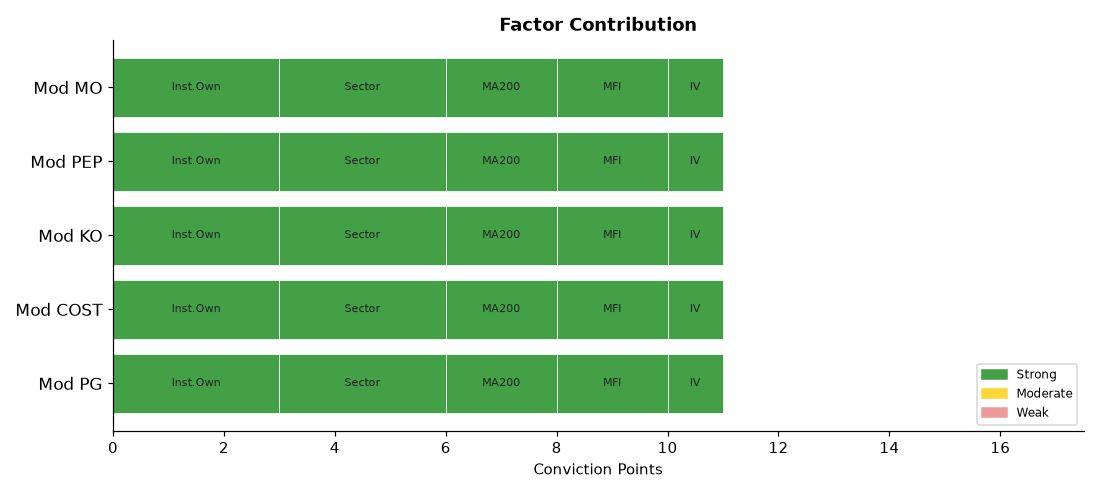
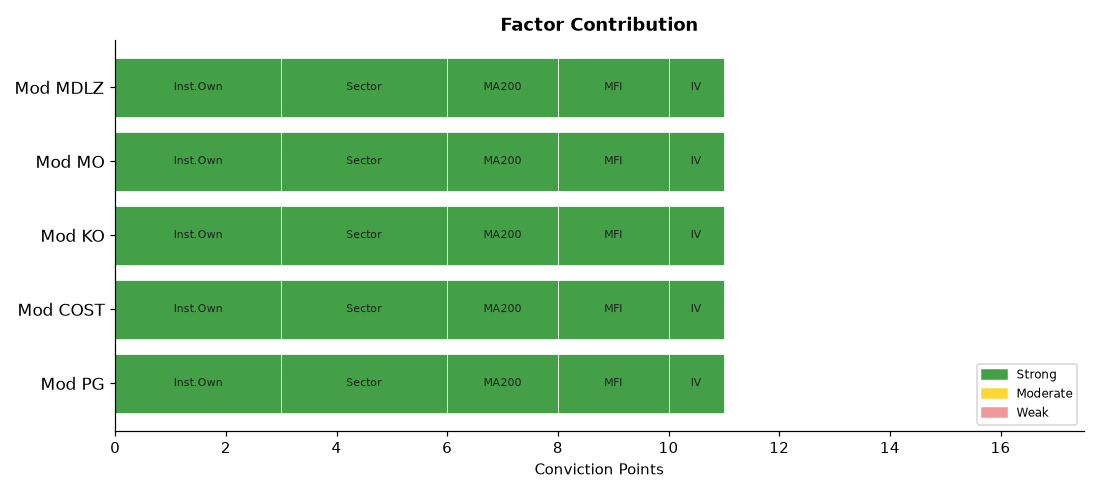
deploy: b7fadf5b06deb90e7ebb92f278722414bdd9750d

diff --git a/index.html b/index.html
@@ -4,7 +4,7 @@
   <meta charset="UTF-8">
   <meta name="viewport" content="width=device-width,initial-scale=1">
   <meta http-equiv="Cache-Control" content="no-cache,no-store,must-revalidate">
-  <title>Stock Breakout Screener — 2026-11-13 20:34</title>
+  <title>Stock Breakout Screener — 2026-11-13 20:56</title>
   <style>
     *{box-sizing:border-box;margin:0;padding:0}
     body{font-family:'Segoe UI',Arial,sans-serif;background:#f0f2f5;
@@ -34,7 +34,7 @@
 
 <div class="hdr">
   <h1>📈 Stock Breakout Screener</h1>
-  <p>Updated: 2026-11-13 20:34 UTC &nbsp;·&nbsp; Phase: After-Hours (4:00–8:00 PM ET) &nbsp;·&nbsp;
+  <p>Updated: 2026-11-13 20:56 UTC &nbsp;·&nbsp; Phase: After-Hours (4:00–8:00 PM ET) &nbsp;·&nbsp;
      129 stocks screened &nbsp;·&nbsp; Top 5 by conviction score</p>
 </div>
 
@@ -69,7 +69,7 @@
             </span>
           </div>
           <ul style="margin:0;padding-left:18px;font-size:13px;
-                     color:#333;line-height:1.8"><li style="margin:5px 0"><span style="background:#ffebee;color:#b71c1c;padding:2px 7px;border-radius:4px;font-size:11px;">❌</span> Volume: <b>0.5× average</b> — Above-average activity</li><li style="margin:5px 0"><span style="background:#ffebee;color:#b71c1c;padding:2px 7px;border-radius:4px;font-size:11px;">❌</span> Candle: close <b>$169.77</b> vs open <b>$168.97</b> (+0.5%) — regular market close</li><li style="margin:5px 0"><span style="background:#e8f5e9;color:#2e7d32;padding:2px 7px;border-radius:4px;font-size:11px;">✅</span> 200-Day MA: price <b>$169.77</b> vs MA <b>$148.16</b> — <b>✅ Above</b> long-term trend</li><li style="margin:5px 0"><span style="background:#e8f5e9;color:#2e7d32;padding:2px 7px;border-radius:4px;font-size:11px;">✅</span> Inst. ownership: <b>71.7%</b> · MFI: <b>69.9</b> · Market cap: <b>$393.5B</b></li></ul>
+                     color:#333;line-height:1.8"><li style="margin:5px 0"><span style="background:#ffebee;color:#b71c1c;padding:2px 7px;border-radius:4px;font-size:11px;">❌</span> Volume: <b>0.6× average</b> — Above-average activity</li><li style="margin:5px 0"><span style="background:#ffebee;color:#b71c1c;padding:2px 7px;border-radius:4px;font-size:11px;">❌</span> Candle: close <b>$169.72</b> vs open <b>$168.97</b> (+0.4%) — regular market close</li><li style="margin:5px 0"><span style="background:#e8f5e9;color:#2e7d32;padding:2px 7px;border-radius:4px;font-size:11px;">✅</span> 200-Day MA: price <b>$169.72</b> vs MA <b>$148.16</b> — <b>✅ Above</b> long-term trend</li><li style="margin:5px 0"><span style="background:#e8f5e9;color:#2e7d32;padding:2px 7px;border-radius:4px;font-size:11px;">✅</span> Inst. ownership: <b>71.7%</b> · MFI: <b>70.0</b> · Market cap: <b>$393.4B</b></li></ul>
         </div>
         <div style="background:#fff;border:1px solid #ddd;border-radius:10px;
                     padding:16px 20px;margin-bottom:12px;
@@ -86,7 +86,7 @@
             </span>
           </div>
           <ul style="margin:0;padding-left:18px;font-size:13px;
-                     color:#333;line-height:1.8"><li style="margin:5px 0"><span style="background:#ffebee;color:#b71c1c;padding:2px 7px;border-radius:4px;font-size:11px;">❌</span> Volume: <b>0.6× average</b> — Above-average activity</li><li style="margin:5px 0"><span style="background:#ffebee;color:#b71c1c;padding:2px 7px;border-radius:4px;font-size:11px;">❌</span> Candle: close <b>$1104.17</b> vs open <b>$1094.59</b> (+0.9%) — regular market close</li><li style="margin:5px 0"><span style="background:#e8f5e9;color:#2e7d32;padding:2px 7px;border-radius:4px;font-size:11px;">✅</span> 200-Day MA: price <b>$1104.17</b> vs MA <b>$962.53</b> — <b>✅ Above</b> long-term trend</li><li style="margin:5px 0"><span style="background:#e8f5e9;color:#2e7d32;padding:2px 7px;border-radius:4px;font-size:11px;">✅</span> Inst. ownership: <b>74.2%</b> · MFI: <b>75.5</b> · Market cap: <b>$489.3B</b></li></ul>
+                     color:#333;line-height:1.8"><li style="margin:5px 0"><span style="background:#ffebee;color:#b71c1c;padding:2px 7px;border-radius:4px;font-size:11px;">❌</span> Volume: <b>0.6× average</b> — Above-average activity</li><li style="margin:5px 0"><span style="background:#ffebee;color:#b71c1c;padding:2px 7px;border-radius:4px;font-size:11px;">❌</span> Candle: close <b>$1106.03</b> vs open <b>$1094.59</b> (+1.0%) — regular market close</li><li style="margin:5px 0"><span style="background:#e8f5e9;color:#2e7d32;padding:2px 7px;border-radius:4px;font-size:11px;">✅</span> 200-Day MA: price <b>$1106.03</b> vs MA <b>$962.55</b> — <b>✅ Above</b> long-term trend</li><li style="margin:5px 0"><span style="background:#e8f5e9;color:#2e7d32;padding:2px 7px;border-radius:4px;font-size:11px;">✅</span> Inst. ownership: <b>74.2%</b> · MFI: <b>75.6</b> · Market cap: <b>$490.1B</b></li></ul>
         </div>
         <div style="background:#fff;border:1px solid #ddd;border-radius:10px;
                     padding:16px 20px;margin-bottom:12px;
@@ -103,7 +103,7 @@
             </span>
           </div>
           <ul style="margin:0;padding-left:18px;font-size:13px;
-                     color:#333;line-height:1.8"><li style="margin:5px 0"><span style="background:#ffebee;color:#b71c1c;padding:2px 7px;border-radius:4px;font-size:11px;">❌</span> Volume: <b>0.6× average</b> — Above-average activity</li><li style="margin:5px 0"><span style="background:#ffebee;color:#b71c1c;padding:2px 7px;border-radius:4px;font-size:11px;">❌</span> Candle: close <b>$99.17</b> vs open <b>$98.18</b> (+1.0%) — regular market close</li><li style="margin:5px 0"><span style="background:#e8f5e9;color:#2e7d32;padding:2px 7px;border-radius:4px;font-size:11px;">✅</span> 200-Day MA: price <b>$99.17</b> vs MA <b>$86.17</b> — <b>✅ Above</b> long-term trend</li><li style="margin:5px 0"><span style="background:#e8f5e9;color:#2e7d32;padding:2px 7px;border-radius:4px;font-size:11px;">✅</span> Inst. ownership: <b>68.1%</b> · MFI: <b>74.7</b> · Market cap: <b>$426.6B</b></li></ul>
+                     color:#333;line-height:1.8"><li style="margin:5px 0"><span style="background:#ffebee;color:#b71c1c;padding:2px 7px;border-radius:4px;font-size:11px;">❌</span> Volume: <b>0.7× average</b> — Above-average activity</li><li style="margin:5px 0"><span style="background:#ffebee;color:#b71c1c;padding:2px 7px;border-radius:4px;font-size:11px;">❌</span> Candle: close <b>$99.04</b> vs open <b>$98.18</b> (+0.9%) — regular market close</li><li style="margin:5px 0"><span style="background:#e8f5e9;color:#2e7d32;padding:2px 7px;border-radius:4px;font-size:11px;">✅</span> 200-Day MA: price <b>$99.04</b> vs MA <b>$86.17</b> — <b>✅ Above</b> long-term trend</li><li style="margin:5px 0"><span style="background:#e8f5e9;color:#2e7d32;padding:2px 7px;border-radius:4px;font-size:11px;">✅</span> Inst. ownership: <b>68.1%</b> · MFI: <b>74.8</b> · Market cap: <b>$426.1B</b></li></ul>
         </div>
         <div style="background:#fff;border:1px solid #ddd;border-radius:10px;
                     padding:16px 20px;margin-bottom:12px;
@@ -111,7 +111,7 @@
           <div style="display:flex;align-items:center;gap:10px;
                       flex-wrap:wrap;margin-bottom:10px">
             <span style="font-size:22px">🟡</span>
-            <span style="font-size:19px;font-weight:700">4. PEP</span>
+            <span style="font-size:19px;font-weight:700">4. MO</span>
             <span style="font-size:12px;color:#666">Consumer Stpl</span>
             <span style="margin-left:auto;background:#1a237e;color:#fff;
                          padding:3px 12px;border-radius:12px;
@@ -120,7 +120,7 @@
             </span>
           </div>
           <ul style="margin:0;padding-left:18px;font-size:13px;
-                     color:#333;line-height:1.8"><li style="margin:5px 0"><span style="background:#ffebee;color:#b71c1c;padding:2px 7px;border-radius:4px;font-size:11px;">❌</span> Volume: <b>0.4× average</b> — Above-average activity</li><li style="margin:5px 0"><span style="background:#ffebee;color:#b71c1c;padding:2px 7px;border-radius:4px;font-size:11px;">❌</span> Candle: close <b>$145.02</b> vs open <b>$142.96</b> (+1.4%) — regular market close</li><li style="margin:5px 0"><span style="background:#e8f5e9;color:#2e7d32;padding:2px 7px;border-radius:4px;font-size:11px;">✅</span> 200-Day MA: price <b>$145.02</b> vs MA <b>$137.44</b> — <b>✅ Above</b> long-term trend</li><li style="margin:5px 0"><span style="background:#e8f5e9;color:#2e7d32;padding:2px 7px;border-radius:4px;font-size:11px;">✅</span> Inst. ownership: <b>81.0%</b> · MFI: <b>76.9</b> · Market cap: <b>$197.6B</b></li></ul>
+                     color:#333;line-height:1.8"><li style="margin:5px 0"><span style="background:#ffebee;color:#b71c1c;padding:2px 7px;border-radius:4px;font-size:11px;">❌</span> Volume: <b>0.4× average</b> — Above-average activity</li><li style="margin:5px 0"><span style="background:#ffebee;color:#b71c1c;padding:2px 7px;border-radius:4px;font-size:11px;">❌</span> Candle: close <b>$78.60</b> vs open <b>$78.60</b> (+0.0%) — regular market close</li><li style="margin:5px 0"><span style="background:#e8f5e9;color:#2e7d32;padding:2px 7px;border-radius:4px;font-size:11px;">✅</span> 200-Day MA: price <b>$78.60</b> vs MA <b>$70.24</b> — <b>✅ Above</b> long-term trend</li><li style="margin:5px 0"><span style="background:#e8f5e9;color:#2e7d32;padding:2px 7px;border-radius:4px;font-size:11px;">✅</span> Inst. ownership: <b>64.9%</b> · MFI: <b>66.9</b> · Market cap: <b>$130.7B</b></li></ul>
         </div>
         <div style="background:#fff;border:1px solid #ddd;border-radius:10px;
                     padding:16px 20px;margin-bottom:12px;
@@ -128,7 +128,7 @@
           <div style="display:flex;align-items:center;gap:10px;
                       flex-wrap:wrap;margin-bottom:10px">
             <span style="font-size:22px">🟡</span>
-            <span style="font-size:19px;font-weight:700">5. MO</span>
+            <span style="font-size:19px;font-weight:700">5. MDLZ</span>
             <span style="font-size:12px;color:#666">Consumer Stpl</span>
             <span style="margin-left:auto;background:#1a237e;color:#fff;
                          padding:3px 12px;border-radius:12px;
@@ -137,7 +137,7 @@
             </span>
           </div>
           <ul style="margin:0;padding-left:18px;font-size:13px;
-                     color:#333;line-height:1.8"><li style="margin:5px 0"><span style="background:#ffebee;color:#b71c1c;padding:2px 7px;border-radius:4px;font-size:11px;">❌</span> Volume: <b>0.3× average</b> — Above-average activity</li><li style="margin:5px 0"><span style="background:#ffebee;color:#b71c1c;padding:2px 7px;border-radius:4px;font-size:11px;">❌</span> Candle: close <b>$78.57</b> vs open <b>$78.60</b> (-0.0%) — regular market close</li><li style="margin:5px 0"><span style="background:#e8f5e9;color:#2e7d32;padding:2px 7px;border-radius:4px;font-size:11px;">✅</span> 200-Day MA: price <b>$78.57</b> vs MA <b>$70.24</b> — <b>✅ Above</b> long-term trend</li><li style="margin:5px 0"><span style="background:#e8f5e9;color:#2e7d32;padding:2px 7px;border-radius:4px;font-size:11px;">✅</span> Inst. ownership: <b>64.9%</b> · MFI: <b>66.8</b> · Market cap: <b>$130.7B</b></li></ul>
+                     color:#333;line-height:1.8"><li style="margin:5px 0"><span style="background:#ffebee;color:#b71c1c;padding:2px 7px;border-radius:4px;font-size:11px;">❌</span> Volume: <b>0.5× average</b> — Above-average activity</li><li style="margin:5px 0"><span style="background:#ffebee;color:#b71c1c;padding:2px 7px;border-radius:4px;font-size:11px;">❌</span> Candle: close <b>$67.45</b> vs open <b>$66.88</b> (+0.9%) — regular market close</li><li style="margin:5px 0"><span style="background:#e8f5e9;color:#2e7d32;padding:2px 7px;border-radius:4px;font-size:11px;">✅</span> 200-Day MA: price <b>$67.45</b> vs MA <b>$61.41</b> — <b>✅ Above</b> long-term trend</li><li style="margin:5px 0"><span style="background:#e8f5e9;color:#2e7d32;padding:2px 7px;border-radius:4px;font-size:11px;">✅</span> Inst. ownership: <b>89.1%</b> · MFI: <b>75.3</b> · Market cap: <b>$85.4B</b></li></ul>
         </div>
 
 
@@ -169,17 +169,17 @@
         <tr>
           <td style="font-weight:700;text-align:left;padding-left:10px">
             🟡 PG</td>
-          <td style="background:#ffcdd2">0.5×</td>
-          <td style="background:#ffcdd2">+0.5%</td>
+          <td style="background:#ffcdd2">0.6×</td>
+          <td style="background:#ffcdd2">+0.4%</td>
           <td style="background:#c8e6c9">
             ▲ Above</td>
           <td style="background:#c8e6c9">
             71.7%</td>
           <td style="background:#c8e6c9">
-            69.9</td>
+            70.0</td>
           <td style="background:#c8e6c9">Consumer Stpl</td>
           <td style="background:#c8e6c9">
-            169.4%</td>
+            172.5%</td>
           <td style="background:#ffcdd2">
             N/A</td>
           <td style="font-weight:800;font-size:15px">11/17</td>
@@ -188,16 +188,16 @@
           <td style="font-weight:700;text-align:left;padding-left:10px">
             🟡 COST</td>
           <td style="background:#ffcdd2">0.6×</td>
-          <td style="background:#ffcdd2">+0.9%</td>
+          <td style="background:#ffcdd2">+1.0%</td>
           <td style="background:#c8e6c9">
             ▲ Above</td>
           <td style="background:#c8e6c9">
             74.2%</td>
           <td style="background:#c8e6c9">
-            75.5</td>
+            75.6</td>
           <td style="background:#c8e6c9">Consumer Stpl</td>
           <td style="background:#c8e6c9">
-            142.8%</td>
+            78.0%</td>
           <td style="background:#ffcdd2">
             N/A</td>
           <td style="font-weight:800;font-size:15px">11/17</td>
@@ -205,35 +205,17 @@
         <tr>
           <td style="font-weight:700;text-align:left;padding-left:10px">
             🟡 KO</td>
-          <td style="background:#ffcdd2">0.6×</td>
-          <td style="background:#ffcdd2">+1.0%</td>
+          <td style="background:#ffcdd2">0.7×</td>
+          <td style="background:#ffcdd2">+0.9%</td>
           <td style="background:#c8e6c9">
             ▲ Above</td>
           <td style="background:#c8e6c9">
             68.1%</td>
           <td style="background:#c8e6c9">
-            74.7</td>
+            74.8</td>
           <td style="background:#c8e6c9">Consumer Stpl</td>
           <td style="background:#c8e6c9">
-            194.4%</td>
-          <td style="background:#ffcdd2">
-            N/A</td>
-          <td style="font-weight:800;font-size:15px">11/17</td>
-        </tr>
-        <tr>
-          <td style="font-weight:700;text-align:left;padding-left:10px">
-            🟡 PEP</td>
-          <td style="background:#ffcdd2">0.4×</td>
-          <td style="background:#ffcdd2">+1.4%</td>
-          <td style="background:#c8e6c9">
-            ▲ Above</td>
-          <td style="background:#c8e6c9">
-            81.0%</td>
-          <td style="background:#c8e6c9">
-            76.9</td>
-          <td style="background:#c8e6c9">Consumer Stpl</td>
-          <td style="background:#c8e6c9">
-            131.1%</td>
+            198.7%</td>
           <td style="background:#ffcdd2">
             N/A</td>
           <td style="font-weight:800;font-size:15px">11/17</td>
@@ -241,17 +223,35 @@
         <tr>
           <td style="font-weight:700;text-align:left;padding-left:10px">
             🟡 MO</td>
-          <td style="background:#ffcdd2">0.3×</td>
-          <td style="background:#ffcdd2">-0.0%</td>
+          <td style="background:#ffcdd2">0.4×</td>
+          <td style="background:#ffcdd2">+0.0%</td>
           <td style="background:#c8e6c9">
             ▲ Above</td>
           <td style="background:#c8e6c9">
             64.9%</td>
           <td style="background:#c8e6c9">
-            66.8</td>
+            66.9</td>
           <td style="background:#c8e6c9">Consumer Stpl</td>
           <td style="background:#c8e6c9">
-            169.0%</td>
+            162.4%</td>
+          <td style="background:#ffcdd2">
+            N/A</td>
+          <td style="font-weight:800;font-size:15px">11/17</td>
+        </tr>
+        <tr>
+          <td style="font-weight:700;text-align:left;padding-left:10px">
+            🟡 MDLZ</td>
+          <td style="background:#ffcdd2">0.5×</td>
+          <td style="background:#ffcdd2">+0.9%</td>
+          <td style="background:#c8e6c9">
+            ▲ Above</td>
+          <td style="background:#c8e6c9">
+            89.1%</td>
+          <td style="background:#c8e6c9">
+            75.3</td>
+          <td style="background:#c8e6c9">Consumer Stpl</td>
+          <td style="background:#c8e6c9">
+            95.3%</td>
           <td style="background:#ffcdd2">
             N/A</td>
           <td style="font-weight:800;font-size:15px">11/17</td>
@@ -278,57 +278,57 @@
         <tr>
           <td style="text-align:left;padding-left:10px;font-weight:600">
             #1 Consumer Stpl</td>
-          <td style="background:#e8f5e9;color:#2e7d32;font-weight:700">+1.27%</td>
+          <td style="background:#e8f5e9;color:#2e7d32;font-weight:700">+1.32%</td>
         </tr>
         <tr>
           <td style="text-align:left;padding-left:10px;font-weight:600">
             #2 Comm. Services</td>
-          <td style="background:#e8f5e9;color:#2e7d32;font-weight:700">+0.97%</td>
+          <td style="background:#e8f5e9;color:#2e7d32;font-weight:700">+1.02%</td>
         </tr>
         <tr>
           <td style="text-align:left;padding-left:10px;font-weight:600">
             #3 Energy</td>
-          <td style="background:#e8f5e9;color:#2e7d32;font-weight:700">+0.66%</td>
+          <td style="background:#e8f5e9;color:#2e7d32;font-weight:700">+0.81%</td>
         </tr>
         <tr>
           <td style="text-align:left;padding-left:10px;font-weight:600">
-            #4 Healthcare</td>
-          <td style="background:#e8f5e9;color:#2e7d32;font-weight:700">+0.51%</td>
+            #4 Financials</td>
+          <td style="background:#e8f5e9;color:#2e7d32;font-weight:700">+0.73%</td>
         </tr>
         <tr>
           <td style="text-align:left;padding-left:10px;font-weight:600">
-            #5 Financials</td>
-          <td style="background:#e8f5e9;color:#2e7d32;font-weight:700">+0.42%</td>
+            #5 Healthcare</td>
+          <td style="background:#e8f5e9;color:#2e7d32;font-weight:700">+0.54%</td>
         </tr>
         <tr>
           <td style="text-align:left;padding-left:10px;font-weight:600">
             #6 Utilities</td>
-          <td style="background:#e8f5e9;color:#2e7d32;font-weight:700">+0.41%</td>
+          <td style="background:#e8f5e9;color:#2e7d32;font-weight:700">+0.52%</td>
         </tr>
         <tr>
           <td style="text-align:left;padding-left:10px;font-weight:600">
             #7 Real Estate</td>
-          <td style="background:#ffebee;color:#c62828;font-weight:700">-0.08%</td>
+          <td style="background:#ffebee;color:#c62828;font-weight:700">-0.02%</td>
         </tr>
         <tr>
           <td style="text-align:left;padding-left:10px;font-weight:600">
             #8 Materials</td>
-          <td style="background:#ffebee;color:#c62828;font-weight:700">-0.28%</td>
+          <td style="background:#ffebee;color:#c62828;font-weight:700">-0.29%</td>
         </tr>
         <tr>
           <td style="text-align:left;padding-left:10px;font-weight:600">
             #9 Consumer Disc</td>
-          <td style="background:#ffebee;color:#c62828;font-weight:700">-0.49%</td>
+          <td style="background:#ffebee;color:#c62828;font-weight:700">-0.42%</td>
         </tr>
         <tr>
           <td style="text-align:left;padding-left:10px;font-weight:600">
             #10 Industrials</td>
-          <td style="background:#ffebee;color:#c62828;font-weight:700">-0.61%</td>
+          <td style="background:#ffebee;color:#c62828;font-weight:700">-0.46%</td>
         </tr>
         <tr>
           <td style="text-align:left;padding-left:10px;font-weight:600">
             #11 Technology</td>
-          <td style="background:#ffebee;color:#c62828;font-weight:700">-2.30%</td>
+          <td style="background:#ffebee;color:#c62828;font-weight:700">-1.95%</td>
         </tr>
     </table>
   </div>
@@ -367,7 +367,7 @@
         <li><b>Scoring weights:</b>
             Inst.Own(3) · Sector(3) · Volume(2) · Breakout(2) ·
             MA200(2) · MFI(2) · History(2) · IV(1) = 17pts max</li>
-        <li><b>Run time:</b> 2026-11-13 20:34 UTC — Market phase: After-Hours (4:00–8:00 PM ET)</li>
+        <li><b>Run time:</b> 2026-11-13 20:56 UTC — Market phase: After-Hours (4:00–8:00 PM ET)</li>
       </ul>
     </div>
 
